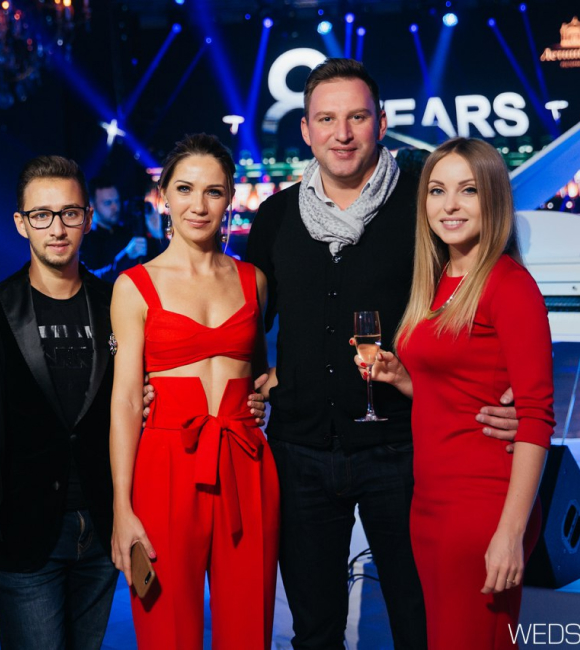
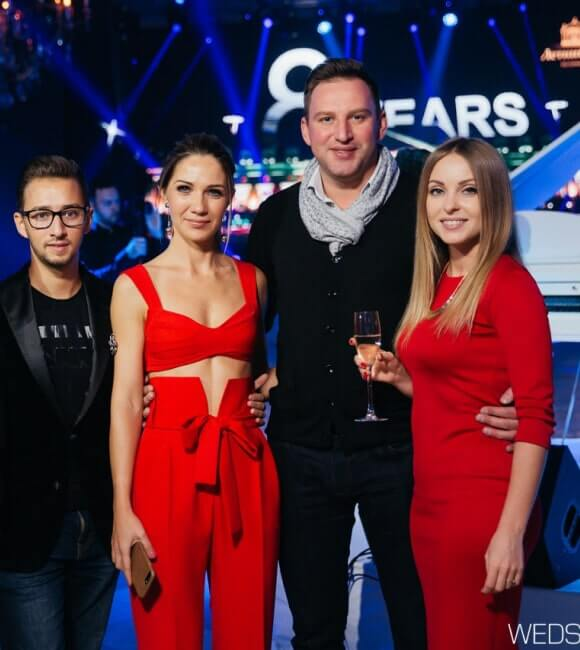
Оптимизированы фото

diff --git a/css/styles.css b/css/styles.css
@@ -232,7 +232,7 @@ img {
     /* height: 409px; */
     padding-top: 120px;
     padding-bottom: 120px;
-    background-image: url(../images/contacts-bg.png);
+    background-image: url(../images/contacts-bg.jpg);
     background-size: 100% 100%;
     background-repeat: no-repeat;
     text-align: center;
